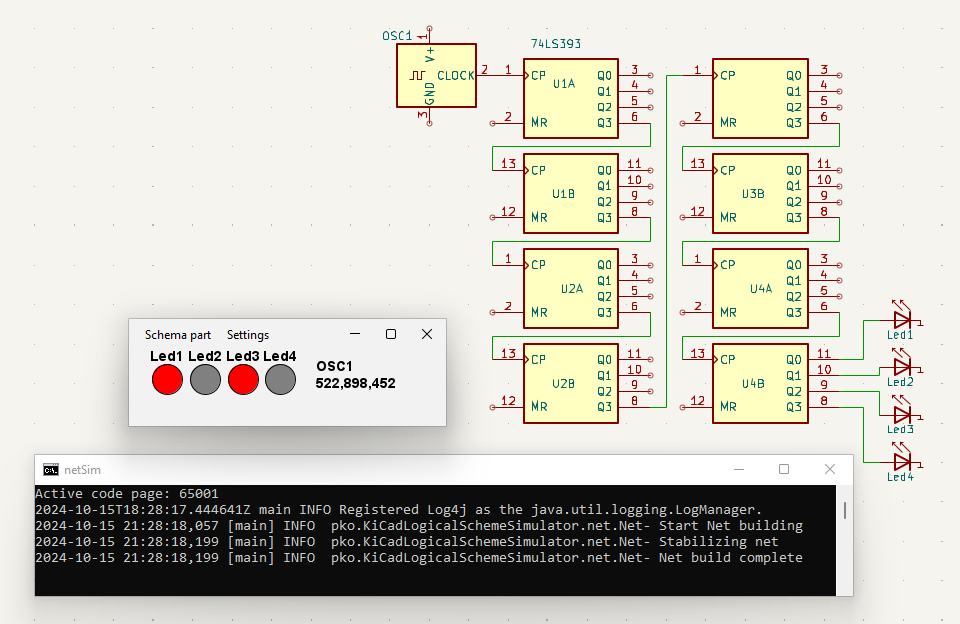
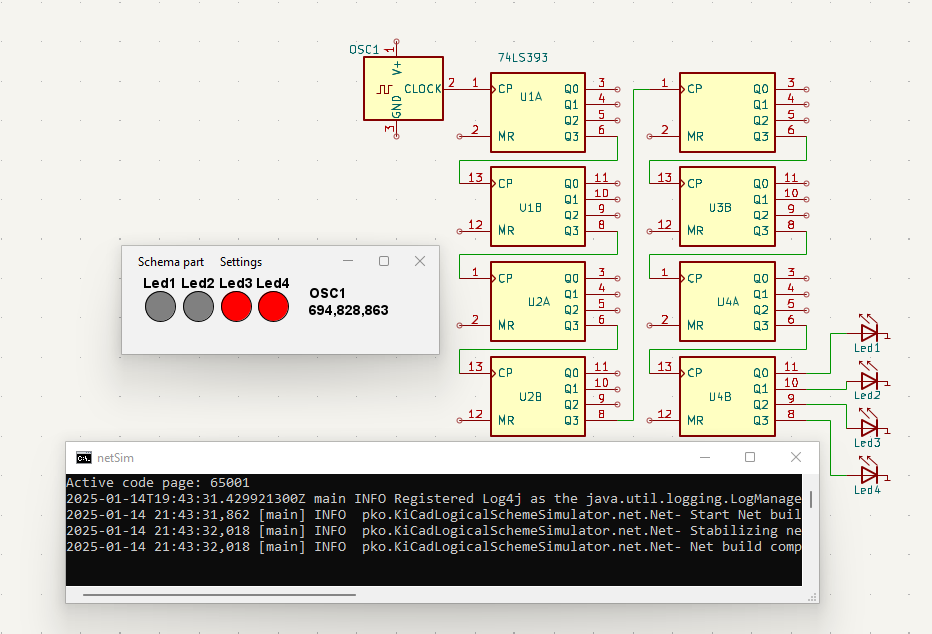
README, some component speed tune

Changed region(s): [[0.0311, 0.0304, 0.9646, 0.9744]]

diff --git a/simulator/src/java/pko/KiCadLogicalSchemeSimulator/net/bus/BusToWiresAdapter.java b/simulator/src/java/pko/KiCadLogicalSchemeSimulator/net/bus/BusToWiresAdapter.java
@@ -125,14 +125,13 @@ public class BusToWiresAdapter extends OutBus {
         /*Optimiser block setters line iSetter*/
         hiImpedance = false;
         state = newState;
-        /*Optimiser blockEnd setters block mask bind m:mask*/
-        final long newMaskState = newState & mask;
-        if (
-            /*Optimiser block iSetter bind d:toImp[0] */
-                toImp[0].hiImpedance ||
-                        /*Optimiser blockEnd iSetter */
-                        maskState != newMaskState) {
-            maskState = newMaskState;
+        /*Optimiser blockEnd setters block mask*/
+        final long newMaskState;
+        /*Optimiser bind m:mask*/
+        if (maskState != (newMaskState = newState & mask)
+                /*Optimiser line iSetter bind d:toImp[0] *///
+                || toImp[0].hiImpedance //
+        ) {
             /*Optimiser blockEnd mask block setters block allRecurse*/
             if (processing) {
                 /*Optimiser line recurse*/
@@ -143,16 +142,17 @@ public class BusToWiresAdapter extends OutBus {
                     /*Optimiser block recurse*/
                 }
                 hasQueue = true;
-                /*Optimiser bind nState:newMaskState*/
-                queueState = newMaskState == 0;
+                /*Optimiser bind nState:maskState\s=\snewMaskState*/
+                queueState = (maskState = newMaskState) == 0;
                 /*Optimiser blockEnd recurse*/
             } else {
                 processing = true;
-                /*Optimiser blockEnd setters blockEnd allRecurse bind nState:newMaskState*/
-                if (newMaskState == 0) {
+                /*Optimiser blockEnd setters blockEnd allRecurse bind nState:maskState\s=\snewMaskState*/
+                if ((maskState = newMaskState) == 0) {
                     for (Pin low : toLow) {
                         low.setLo();
                     }
+                    /*Optimiser line toHi*/
                 } else {
                     for (Pin hi : toHi) {
                         hi.setHi();
@@ -219,6 +219,9 @@ public class BusToWiresAdapter extends OutBus {
             }
             if (applyMask == 0) {
                 optimiser.cut("mask").bind("nState", "newState");
+            }
+            if (toHi.length == 0) {
+                optimiser.cut("toHi");
             }
             BusToWiresAdapter build = optimiser.build();
             build.source = source;

diff --git a/schemaParts/dcTrigger/src/java/pko/KiCadLogicalSchemeSimulator/components/dcTrigger/DcCRaisingPin.java b/schemaParts/dcTrigger/src/java/pko/KiCadLogicalSchemeSimulator/components/dcTrigger/DcCRaisingPin.java
@@ -65,26 +65,29 @@ public class DcCRaisingPin extends RaisingEdgePin {
         state = true;
         /*Optimiser line anyRS*/
         if (parent.clockEnabled) {
+            Pin pin;
             if (dPin.state) {
                 /*Optimiser block q*/
-                if (!qOut.state) {
-                    qOut.setHi();
+                if (!(pin = qOut).state) {
+                    pin.setHi();
                     /*Optimiser line bothRS block nq*/
                 }
                 /*Optimiser line bothRSQ blockEnd q*/
-                if (iqOut.state) {
-                    iqOut.setLo();
+                if ((pin = iqOut).state) {
+                    pin.setLo();
                     /*Optimiser blockEnd nq*/
                 }
+                //noinspection UnnecessaryReturnStatement
+                return;
             } else {
                 /*Optimiser block q*/
-                if (qOut.state) {
-                    qOut.setLo();
+                if ((pin = qOut).state) {
+                    pin.setLo();
                     /*Optimiser line bothRS block nq*/
                 }
                 /*Optimiser line bothRSQ blockEnd q*/
-                if (!iqOut.state) {
-                    iqOut.setHi();
+                if (!(pin = iqOut).state) {
+                    pin.setHi();
                     /*Optimiser blockEnd nq*/
                 }
             }

diff --git a/schemaParts/counter/src/java/pko/KiCadLogicalSchemeSimulator/components/counter/CInFallingPin.java b/schemaParts/counter/src/java/pko/KiCadLogicalSchemeSimulator/components/counter/CInFallingPin.java
@@ -63,8 +63,10 @@ public class CInFallingPin extends FallingEdgePin {
     public void setLo() {
         /*Optimiser line setter*/
         state = false;
+        Bus bus;
+        long state;
         /*Optimiser bind countMask*/
-        out.setState((out.state + 1) & countMask);
+        (bus = out).setState((state = bus.state) == countMask ? 0 : state + 1);
     }
 
     @Override

diff --git a/simulator/src/java/pko/KiCadLogicalSchemeSimulator/tools/Utils.java b/simulator/src/java/pko/KiCadLogicalSchemeSimulator/tools/Utils.java
@@ -132,6 +132,7 @@ public class Utils {
     }
 
     public static String regexEscape(String input) {
+        input = input.replace("\\s", " ");
         String[] specialChars = {"\\", "^", "$", ".", "|", "?", "*", "+", "(", ")", "[", "{", "]", "}", ":", "!"};
         for (String ch : specialChars) {
             input = input.replace(ch, "\\" + ch);

diff --git a/schemaParts/repeater/src/java/pko/KiCadLogicalSchemeSimulator/components/repeater/Repeater.java b/schemaParts/repeater/src/java/pko/KiCadLogicalSchemeSimulator/components/repeater/Repeater.java
@@ -46,8 +46,7 @@ public class Repeater extends SchemaPart {
     public void initOuts() {
         Pin out = getOutPin("OUT");
         inPin.out = out;
-        //FixMe what is faster? == or ^?
-        out.state = reverse ^ inPin.state;
+        out.state = reverse != inPin.state;
     }
 
     @Override

diff --git a/README.md b/README.md
@@ -3,9 +3,12 @@
 [KiCad](https://www.kicad.org) plugin for interactive logical scheme simulation.
 Supports two usage methods: directly from KiCad or standalone, using a schema file exported from KiCad in the "PCB Netlist"(`.net`) file format.
 
-Focuses on performance and simplicity of the net schema part API, allowing easy implementation of custom schema part behaviors for simulation.
+Focuses on performance and simplicity of the net schema part API, allowing easy implementation of custom schema part behaviors for simulation.  
+Tend to provide out-of-the-box experience. For that has predefined mapping for several KiCad libraries, like 4xxx, some 74xx and others.
 
-[Here is more info](stuff/kicad_symbols/README.md) about the supported schema part list and how to configure KiCad symbols mapping for the simulator.
+More info about [how to configure KiCad symbols mapping](stuff/kicad_symbols/README.md) for the simulator and [supported schema part list](schemaParts/README.md).
+
+Be sure helping this project by implementing new components and/or extend mapping for existing implementation and share result with comunity.
 
 ## Building
 
@@ -19,19 +22,19 @@ If the build is successful, you will find the output in the 'distro' folder.
 
 ## Standalone Start
 
-Once you have prepared and exported the schema from KiCad in the "PCB Netlist" (`.net`) file format, you can start the project. Use the appropriate script based on
-your operating system from the 'distro' directory.
+When the schema are prepared and exported from KiCad in the "PCB Netlist" (`.net`) file format, you can start the project.  
+Use the appropriate script based on your operating system from the 'distro' directory.
 
 For Unix-like systems:
 
 ```bash
-./run.sh mySchema.net
+./run.sh <path>/<to_my_project>/mySchema.net
 ```
 
 For Windows systems:
 
 ```bat
-run.bat mySchema.net
+run.bat <path>/<to_my_project>/mySchema.net
 ```
 
 These scripts initiate the simulator with the specified `.net` file as the first parameter.
@@ -81,6 +84,7 @@ Here are some schema Netlist examples:
 ./gradlew clock
 
 ```
+
 - [Z80](stuff/examples/z80/README.md) - Schema based on the Zilog Z80.
 
 ```

diff --git a/stuff/examples/counters/README.md b/stuff/examples/counters/README.md
@@ -2,14 +2,14 @@
 
 **Sequential counters with LED, ideal for speed test.**
 
-On an Intel i-3770s, this schema achieved approximately 520 MHz.
+On an Intel i-3770s, this schema achieved approximately 690 MHz.
 
-For comparison, [Digital](https://github.com/hneemann/Digital) on the same hardware achieved approximately 90 times less speed.  
-However, important to note that [Digital](https://github.com/hneemann/Digital) and this project have different schema building principles,
+For comparison, [_Digital_](https://github.com/hneemann/Digital) on the same hardware achieved more than 100 times less speed.  
+However, important to note that _Digital_ and this project have different schema building principles,
 which may affect simulation speed.  
 Additionally, this project provides real-time feedback on achieved frequency,
-while [Digital](https://github.com/hneemann/Digital) doesn't offer this feature.
-This leads to the necessity of using a clock for speed measurement in Digital, which is not very accurate.
+while _Digital_ doesn't offer this feature.
+This leads to the necessity of using a clock for speed measurement in _Digital_, which is not very accurate.
 ![Digital](img/digital.png)
 
 for start use counters gradle task

diff --git a/stuff/examples/README.md b/stuff/examples/README.md
@@ -2,6 +2,7 @@
 
 Here is some schemas Netlist examples:
 
+- [Clock](clock/README.md) - Simple 24h clock.
 - [Counters](counters/README.md) - simple chain for counters and LEDs
 - [Z80](z80/README.md) - Zilog Z80 based schema.
 - [TRS80](trs80/README.md) - Stripped TRS80-I schema.
